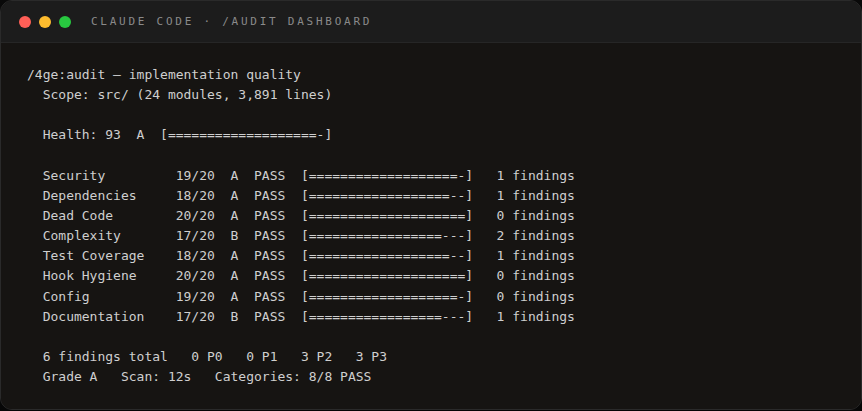
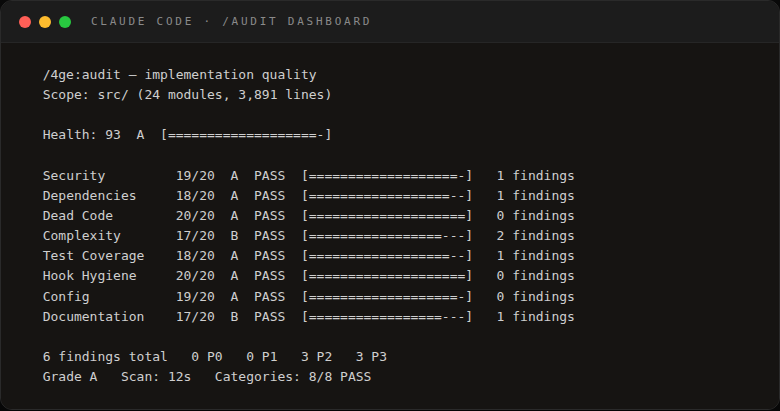
chore(public): sync 4ge v2.3.0 mirror [S411]

diff --git a/plugins/4ge/lib/__tests__/tier-gate.test.js b/plugins/4ge/lib/__tests__/tier-gate.test.js
@@ -167,7 +167,7 @@ describe('tier-gate', () => {
     it('includes upgrade URL in stderr output', () => {
       const stderrSpy = vi.spyOn(process.stderr, 'write').mockImplementation(() => {});
       tg.require('pro', 'dfe');
-      expect(stderrSpy).toHaveBeenCalledWith(expect.stringContaining('https://4ge.dev/pro'));
+      expect(stderrSpy).toHaveBeenCalledWith(expect.stringContaining('https://3sixtyco.dev/4ge'));
     });
 
     it('returns true when tier requirement is met', () => {
@@ -230,5 +230,56 @@ describe('tier-gate', () => {
       expect(tg.PRO_GATED).not.toContain('help');
       expect(tg.PRO_GATED).not.toContain('map');
     });
+
+    it('pins the exact 12-entry regraded set (S410, order-insensitive)', () => {
+      // The regrade (S410, _runs/s410/tier-regrade.md §3) shrank PRO_GATED
+      // from 24 to 12: only multi-agent machinery, professional judgment
+      // surfaces, business artifacts, and their redirect stubs remain gated.
+      const expected = [
+        'forge', 'dfe', 'audit', 'aisle',
+        'outhouse', 'wizard', 'maintain',
+        'autoresearch', 'evolve', 'export',
+        'respawn', 'resp4wn',
+      ];
+      expect(tg.PRO_GATED).toHaveLength(12);
+      expect([...tg.PRO_GATED].sort()).toEqual([...expected].sort());
+    });
+
+    it('DESCRIPTIONS keys equal PRO_GATED members exactly (no dead/missing entries)', () => {
+      // Every gated command must have upgrade-prompt copy, and no ungated
+      // command may carry dead copy (S410 §9 criterion 2).
+      const descKeys = Object.keys(tg.DESCRIPTIONS).sort();
+      const gated = [...tg.PRO_GATED].sort();
+      expect(descKeys).toEqual(gated);
+    });
+
+    it('drops the commands the regrade freed', () => {
+      // The 13 commands moved Free in S410 (commodity wrappers, file
+      // append/read utilities, demo/charm assets, the front door + bootstrap).
+      const freed = [
+        'blueprint', 'commit', 'constraint', 'decide', 'hitchhiker', 'infra',
+        'lint', 'lounge', 'pr', 'releases', 'ship', 'signoff', 'studio',
+        'substrate',
+      ];
+      for (const cmd of freed) expect(tg.PRO_GATED).not.toContain(cmd);
+    });
+  });
+
+  describe('redirect coherence (R3 — stubs inherit their target tier)', () => {
+    const pairs = [
+      ['commit', 'ship'],
+      ['maintain', 'outhouse'],
+      ['resp4wn', 'respawn'],
+      ['hitchhiker', 'recall'],
+      ['recon', 'recall'],
+      ['map', 'recall'],
+      ['superdupersecret', 'secret'],
+    ];
+
+    for (const [stub, target] of pairs) {
+      it(`/${stub} and /${target} share a tier`, () => {
+        expect(tg.PRO_GATED.includes(stub)).toBe(tg.PRO_GATED.includes(target));
+      });
+    }
   });
 });

diff --git a/plugins/4ge/lib/__tests__/first-run.test.js b/plugins/4ge/lib/__tests__/first-run.test.js
@@ -108,7 +108,7 @@ describe('first-run', () => {
 
     it('step 1 text contains upgrade URL', () => {
       const steps = fr.getSetupSteps();
-      expect(steps[0].text).toContain('https://4ge.dev/pro');
+      expect(steps[0].text).toContain('https://3sixtyco.dev/4ge');
     });
 
     it('step 1 text uses durable Pro command copy instead of a stale command count', () => {
@@ -123,6 +123,15 @@ describe('first-run', () => {
       expect(steps[1].text).toContain('Local Docker');
       expect(steps[1].text).toContain('Hosted');
       expect(steps[1].text).toContain('Skip');
+    });
+
+    it('step 2 hosted-memory line names Team $39, not Pro $19 (S410 honesty fix)', () => {
+      // Hosted memory is a Team-tier capability (honesty package, S404 B1).
+      // The old copy sold it as "requires Pro, $19/mo" — a live violation in
+      // every new install's setup flow.
+      const steps = fr.getSetupSteps();
+      expect(steps[1].text).not.toContain('requires Pro, $19');
+      expect(steps[1].text).toContain('requires Team, $39/seat/mo');
     });
 
     it('step 3 text includes first commands to try', () => {

diff --git a/.claude-plugin/screenshots/audit-dashboard-shot.html b/.claude-plugin/screenshots/audit-dashboard-shot.html
@@ -19,6 +19,7 @@
   pre {
     font-family: 'DejaVu Sans Mono', monospace;
     font-size: 13px; line-height: 1.55; margin: 0; padding: 22px 26px;
+    text-indent: 2ch; /* align the col-0 command header with the 2-space body indent (S406 operator visual verify) */
     white-space: pre; background: #161412; color: #cfcfcf;
   }
 </style></head><body>

diff --git a/.claude-plugin/screenshots/dfe-review-shot.html b/.claude-plugin/screenshots/dfe-review-shot.html
@@ -19,6 +19,7 @@
   pre {
     font-family: 'DejaVu Sans Mono', monospace;
     font-size: 13.5px; line-height: 1.55; margin: 0; padding: 22px 26px;
+    text-indent: 2ch; /* align the col-0 command header with the 2-space body indent (S406 operator visual verify) */
     white-space: pre; background: #161412; color: #cfcfcf;
   }
 </style></head><body>

diff --git a/.claude-plugin/screenshots/forge-session-shot.html b/.claude-plugin/screenshots/forge-session-shot.html
@@ -19,6 +19,7 @@
   pre {
     font-family: 'DejaVu Sans Mono', monospace;
     font-size: 13.5px; line-height: 1.55; margin: 0; padding: 22px 26px;
+    text-indent: 2ch; /* align the col-0 command header with the 2-space body indent (S406 operator visual verify) */
     white-space: pre; background: #161412; color: #cfcfcf;
   }
 </style></head><body>

diff --git a/plugins/4ge/README.md b/plugins/4ge/README.md
@@ -18,15 +18,6 @@ claude plugin marketplace add turdpusher360/turd-box
 claude plugin install 4ge@turd-box
 ```
 
-If remote marketplace add fails in your Claude Code build, clone first and add
-the local checkout instead:
-
-```bash
-git clone https://github.com/turdpusher360/turd-box.git
-claude plugin marketplace add ./turd-box
-claude plugin install 4ge@turd-box
-```
-
 ---
 
 ## What It Does
@@ -43,6 +34,7 @@ claude plugin install 4ge@turd-box
 
 | Command | Tier | Description |
 |---------|------|-------------|
+| `/4ge` | Free | 4ge ecosystem command — Forge orchestration + OS operations |
 | `/help` | Free | Command index and usage guide |
 | `/map` | Free | Redirect → `/recall --map` (repository map) |
 | `/recall` | Free | Guided Knowledge hub — memory search, repo map, budget (or `/recall <query>` for dev-memory search) |
@@ -51,32 +43,33 @@ claude plugin install 4ge@turd-box
 | `/hud` | Free | Toggle the OS HUD status pane |
 | `/fix` | Free | Capture maintenance issues without interrupting flow |
 | `/tour` | Free | 5-step guided walkthrough for new users |
-| `/4ge` | Pro | 4ge ecosystem command — Forge orchestration + OS operations |
+| `/ship` | Free | Verify, commit, and push — full delivery pipeline |
+| `/commit` | Free | Redirects to `/ship`; use `/ship --no-push` to commit without pushing |
+| `/pr` | Free | Verify, commit, push, and open a PR |
+| `/blueprint` | Free | Bootstrap or update a Claude Code environment |
+| `/infra` | Free | Docker container health monitoring |
+| `/studio` | Free | Full HUD engine + reactive hooks |
+| `/substrate` | Free | Unicode composition engine |
+| `/decide` | Free | Log a decision to the DCD enrichment file |
+| `/constraint` | Free | Log a constraint/dead-end |
+| `/signoff` | Free | Enrich session cartridge before ending |
+| `/releases` | Free | Recent release notes |
+| `/lint` | Free | Show rule follow-through rates and suggest demotions |
+| `/lounge` | Free | Legacy redirect; use `--lounge` on another command |
+| `/hitchhiker` | Free | Redirect → `/recall` (knowledge search) |
+| `/secret` | Free | Capture a secret without exposing its value to model context |
+| `/superdupersecret` | Free | Alias of `/secret` |
 | `/forge` | Pro | Multi-agent orchestrator: brainstorm → spec → plan → execute → ship |
 | `/dfe` | Pro | 6-pass adversarial code review |
-| `/ship` | Pro | Verify, commit, and push — full delivery pipeline |
 | `/audit` | Pro | Code quality audit — 70 checks across 10 domains |
 | `/aisle` | Pro | AI security posture, scanning, and threat management |
-| `/blueprint` | Pro | Bootstrap or update a Claude Code environment |
-| `/commit` | Pro | Redirects to `/ship`; use `/ship --no-push` to commit without pushing |
-| `/pr` | Pro | Verify, commit, push, and open a PR |
-| `/infra` | Pro | Docker container health monitoring |
-| `/maintain` | Pro | Legacy redirect to `/outhouse` |
 | `/outhouse` | Pro | Repository maintenance wizard |
-| `/autoresearch` | Pro | Self-improving measurement loops |
 | `/wizard` | Pro | Repository maintenance wizard |
-| `/respawn` | Pro | Context Respawn — decision chain preservation |
-| `/hitchhiker` | Pro | Redirect → `/recall` (knowledge search) |
-| `/export` | Pro | Export session work as brief/deck/handoff |
-| `/substrate` | Pro | Unicode composition engine |
-| `/studio` | Pro | Full HUD engine + reactive hooks |
+| `/maintain` | Pro | Legacy redirect to `/outhouse` |
+| `/autoresearch` | Pro | Self-improving measurement loops |
 | `/evolve` | Pro | Analyze usage and suggest config improvements |
-| `/signoff` | Pro | Enrich session cartridge before ending |
-| `/releases` | Pro | Recent release notes |
-| `/decide` | Pro | Log a decision to the DCD enrichment file |
-| `/constraint` | Pro | Log a constraint/dead-end |
-| `/lint` | Pro | Show rule follow-through rates and suggest demotions |
-| `/lounge` | Pro | Legacy redirect; use `--lounge` on another command |
+| `/export` | Pro | Export session work as brief/deck/handoff |
+| `/respawn` | Pro | Context Respawn — decision chain preservation |
 | `/resp4wn` | Pro | Legacy redirect to `/respawn` |
 
 ---
@@ -131,18 +124,17 @@ AISLE reports current security posture and routes scans for supply chain integri
 |--|------|-----|------|
 | **Price** | $0 | $19/mo | $39/seat/mo |
 | **Annual** | — | $190/yr | $390/seat/yr |
-| **Commands** | Core | All Pro | All Pro + admin |
-| **DFE Review** | — | 3-pass | Full 6-pass adversarial |
-| **Forge Orchestration** | — | 7-phase pipeline | + shared context |
-| **AISLE Security** | — | Posture + scans | Posture + policy roadmap |
-| **Memory** | Local only | Local | Local + hosted (shared team namespace) |
-| **Autoresearch** | — | Personal domains | Team-wide measurement |
-| **Blueprint** | — | Single project | Fleet management |
+| **Commands** | 25 free commands | + Pro machinery | Everything in Pro |
+| **DFE Review** | — | Full 6-pass adversarial | Full 6-pass adversarial |
+| **Forge Orchestration** | — | 7-phase pipeline | 7-phase pipeline |
+| **AISLE Security** | — | Posture + scans | Posture + scans |
+| **Blueprint** | Single project | Single project | Single project |
+| **Memory** | Local | Local | Local + hosted (shared team namespace) |
 | **Support** | Community | Email | Priority SLA |
 
 **Install free. Upgrade when you ship.**
 
-Upgrade: `https://4ge.dev/pro`
+Upgrade: `https://3sixtyco.dev/4ge`
 
 ---
 

diff --git a/plugins/4ge/CHANGELOG.md b/plugins/4ge/CHANGELOG.md
@@ -10,6 +10,25 @@ versioning guide.
 
 ---
 
+## [2.3.0] - 2026-06-12
+
+### Changed
+- **Tier regrade: 24 → 12 Pro-gated commands (25 Free / 12 Pro / 0 Team).** An objective rubric pass over all 37 commands (`_runs/s410/tier-regrade.md`) freed 13 previously-gated commands and aligned all seven redirect stubs with their targets. **Not breaking, stays a minor:** the gate has zero `require_()` enforcement call sites in any command body — it prints an upgrade prompt at most (honest friction, not a hard block), so no public invocation is removed. `/maintain` and `/resp4wn` move *into* the gate, but both stubs continue to resolve and their *targets* (`/outhouse`, `/respawn`) were always Pro — this aligns the stubs with the rename-with-stub doctrine, it does not remove a public surface. Per `docs/plugin-versioning.md` §2, expanding the free public surface is feature-bearing Changed (free consumers can newly invoke 13 commands) ⇒ at least minor; per §5.4 (Released = committed) 2.2.2 is committed to main, so this is a new section, not a fold-in.
+  - **Now Free (13):** `/ship`, `/commit`, `/pr` (commodity git wrappers — the delivery loop first-run already recommends to free users); `/decide`, `/constraint`, `/releases`, `/signoff`, `/lint` (file append/read utilities); `/studio`, `/substrate` (demo/charm assets, zero professional depth); `/blueprint` (bootstrap; reconciles the gate with the live /4ge page's free single-project bullet); `/infra` (health command for the local memory stack the free tier already includes); `/4ge` (the front door + first-run wizard); `/hitchhiker` (redirect → free `/recall`).
+  - **Now Pro (added via redirect coherence):** `/maintain` (→ `/outhouse`), `/resp4wn` (→ `/respawn`).
+  - **Stays Pro (the flagship line):** `/forge`, `/dfe`, `/audit`, `/aisle`, `/outhouse`, `/wizard`, `/autoresearch`, `/evolve`, `/export`, `/respawn`.
+  - `DESCRIPTIONS` trimmed to the 12 gated commands (added `maintain` + `resp4wn` entries); README command table and pricing table updated in lockstep (37 rows, `/secret` + `/superdupersecret` added; the unimplementable "3-pass Pro / 6-pass Team" DFE split and the phantom Team rows — fleet Blueprint management, team-wide measurement, policy roadmap — removed). `docs/reference/plugin-vocabulary.md` per-command PRO_GATED mentions re-synced.
+
+### Fixed
+- **First-run setup no longer mis-sells hosted memory as Pro.** `lib/first-run.cjs` step 2 said hosted memory "requires Pro, $19/mo" — but hosted memory is a Team-tier capability (honesty package, S404 B1). Every new install's setup flow now correctly reads "requires Team, $39/seat/mo." The README pricing table's hosted-memory row already named Team; this aligns the in-product copy with it.
+
+## [2.2.2] - 2026-06-11
+
+### Fixed
+- **Retired the dead legacy Pro upgrade CTA.** The old standalone 4ge domain was never registered; the 4ge web presence lives on `3sixtyco.dev`. The upgrade link printed by `tier-gate.cjs` (every Pro-gated command) and `first-run.cjs` (every new install), plus the plugin README, now point at `https://3sixtyco.dev/4ge`. Tests updated in lockstep.
+- **License holder corrected to 3Sixty Co.** The FSL-1.1-MIT license (`LICENSE`) and the Blueprint output MIT license (`LICENSES/BLUEPRINT-OUTPUT-MIT.md`) now name **3Sixty Co.** (registered WA business — the same entity behind the Stripe billing rail and 3sixtyco.dev) as Licensor and copyright holder, replacing the `Turdpusher360` handle. Aligns the legal grant with the commerce entity customers actually buy from.
+- **Plugin manifest URLs point at the public repo.** `plugin.json` `repository`/`homepage` previously pointed at the private source repository (underscore-named); corrected to the public `turd-box` marketplace home so installed-plugin metadata resolves for end users.
+
 ## [2.2.1] - 2026-06-09
 
 ### Changed

diff --git a/README.md b/README.md
@@ -57,15 +57,15 @@ That's it — `/help` will show the full command index once the plugin loads.
 
 | | Free | Pro ($19/mo) | Team ($39/seat/mo) |
 |--|------|--------------|--------------------|
-| Commands | Core | All Pro | All Pro + admin |
-| DFE Review | — | 3-pass | Full 6-pass adversarial |
-| Forge orchestration | — | 7-phase pipeline | + shared context |
-| AISLE security | — | Posture + scans | Posture + policy roadmap |
-| Memory | Local only | Local | Local + **hosted** (shared team namespace) |
-| Blueprint | — | Single project | Fleet management |
+| Commands | 25 free commands | + Pro machinery | Everything in Pro |
+| DFE Review | — | Full 6-pass adversarial | Full 6-pass adversarial |
+| Forge orchestration | — | 7-phase pipeline | 7-phase pipeline |
+| AISLE security | — | Posture + scans | Posture + scans |
+| Memory | Local | Local | Local + **hosted** (shared team namespace) |
+| Blueprint | Single project | Single project | Single project |
 | Support | Community | Email | Priority SLA |
 
-Install free; upgrade when you ship → `https://4ge.dev/pro`
+Install free today; Pro pricing applies when checkout opens → `https://3sixtyco.dev/4ge`
 
 ---
 

diff --git a/plugins/4ge/LICENSES/BLUEPRINT-OUTPUT-MIT.md b/plugins/4ge/LICENSES/BLUEPRINT-OUTPUT-MIT.md
@@ -13,7 +13,7 @@ under MIT terms.
 
 MIT License
 
-Copyright 2026 Turdpusher360
+Copyright 2026 3Sixty Co.
 
 Permission is hereby granted, free of charge, to any person obtaining a copy
 of this software and associated documentation files (the "Software"), to

diff --git a/plugins/4ge/commands/4ge.md b/plugins/4ge/commands/4ge.md
@@ -70,7 +70,7 @@ Do NOT read `output-format.md` — the engine owns its own formatting.
 
 ## Non-render subcommands
 
-For `run`/`resume`/`park`: invoke the `4ge:forge` skill directly.
+For `run`/`resume`/`park`: invoke the `4ge:forge` skill directly. `/4ge` itself is free (front door + first-run), but these three leaves dispatch the forge skill, which is Pro-gated — check `tier-gate.require('pro', 'forge')` semantics before dispatch so the free front door does not become a free side door into forge.
 
 For `eject`/`adopt`: run the CLI wrappers shown in the dispatch table (`node ${CLAUDE_PLUGIN_ROOT}/bin/eject-cli.cjs` / `adopt-cli.cjs`).
 

diff --git a/plugins/4ge/commands/tour.md b/plugins/4ge/commands/tour.md
@@ -113,5 +113,5 @@ Run /4ge:help to explore the full command index.
 - All Free-tier commands shown (`/4ge:recon`, `/4ge:recall`, `/4ge:hud`, `/4ge:help`, `/4ge:debug`) work immediately after `claude plugin install 4ge@turd-box`.
 - `/4ge:recon` is the unified discovery command — it absorbs the older `/map` and `/recall` commands. Use `--map` for the repo dependency map, pass a query for memory search, or `--budget` for the current context budget. Both `/map` and `/recall` still resolve as redirects but the canonical form is `/4ge:recon`.
 - `/4ge:recall` (memory search) requires a running dev-memory hub (local Docker, or the hosted hub on the Team tier). If memory is unavailable, it reports what's missing gracefully — no crash.
-- `/4ge:forge`, `/4ge:dfe`, `/4ge:ship`, `/4ge:commit`, `/4ge:pr`, and `/4ge:audit` require Pro tier. Free users see an upgrade prompt with the cost and upgrade URL.
+- `/4ge:forge`, `/4ge:dfe`, and `/4ge:audit` require Pro tier. Free users see an upgrade prompt with the cost and upgrade URL. (`/ship`, `/commit`, and `/pr` are now free — the delivery loop runs on every tier.)
 - The `--step N` flag exists for chaining: the first-run onboarding flow uses `--step 1` to begin the tour immediately after setup.